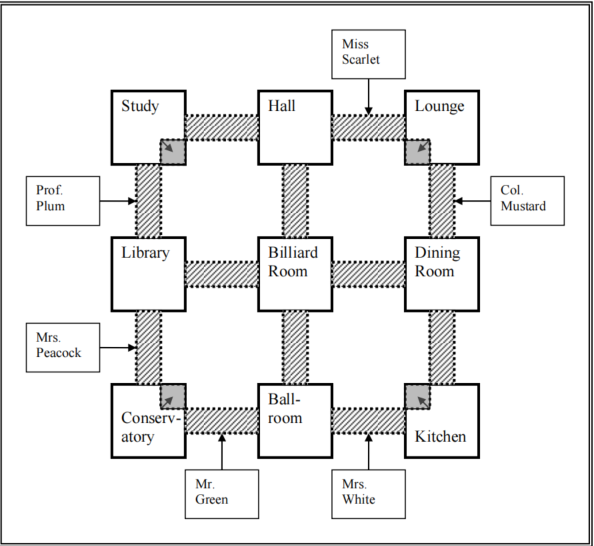
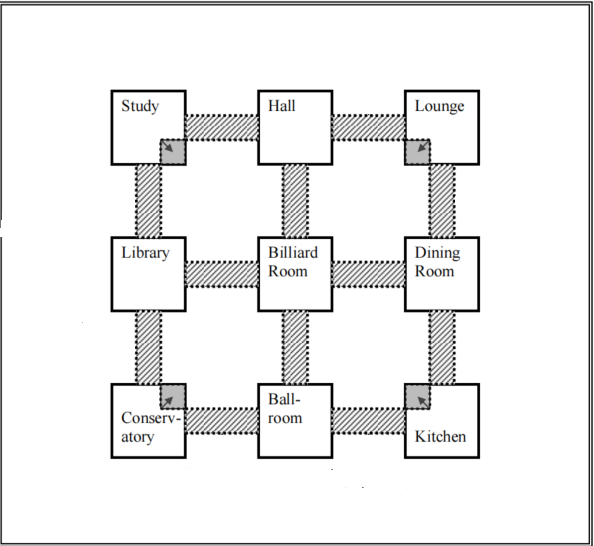
Added css styles and assets

diff --git a/clue-less-frontend/src/app/game-session/game-session.component.ts b/clue-less-frontend/src/app/game-session/game-session.component.ts
@@ -30,32 +30,34 @@ export class GameSessionComponent implements OnInit {
     suspect: ['', [Validators.required]]
   })
 
+  public imagePath: string = '../../assets/'
+
   public clueMap: Array<Array<BoardLocation>> = [
-    [{name: "Conservatory", xCord: 0, yCord: 0, occupancy: 0, playerOccupancy: ""},
-      {name: "Hallway#10", xCord: 1, yCord: 0, occupancy: 0, playerOccupancy: ""},
-      {name: "Ballroom", xCord: 2, yCord: 0, occupancy: 0, playerOccupancy: ""},
-      {name: "Hallway#30", xCord: 3, yCord: 0, occupancy: 0, playerOccupancy: ""},
-      {name: "Kitchen", xCord: 4, yCord: 0, occupancy: 0, playerOccupancy: ""}],
-    [{name: "Hallway#01", xCord: 0, yCord: 1, occupancy: 0, playerOccupancy: ""},
-      {name: "Wall", xCord: 1, yCord: 1, occupancy: 0, playerOccupancy: ""},
-      {name: "Hallway#21", xCord: 2, yCord: 1, occupancy: 0, playerOccupancy: ""},
-      {name: "Wall", xCord: 3, yCord: 1, occupancy: 0, playerOccupancy: ""},
-      {name: "Hallway#41", xCord: 4, yCord: 1, occupancy: 0, playerOccupancy: ""}],
-    [{name: "Library", xCord: 0, yCord: 2, occupancy: 0, playerOccupancy: ""},
-      {name: "Hallway#12", xCord: 1, yCord: 2, occupancy: 0, playerOccupancy: ""},
-      {name: "Billiard Room", xCord: 2, yCord: 2, occupancy: 0, playerOccupancy: ""},
-      {name: "Hallway#32", xCord: 3, yCord: 2, occupancy: 0, playerOccupancy: ""},
-      {name: "Dining Room", xCord: 4, yCord: 2, occupancy: 0, playerOccupancy: ""}],
-    [{name: "Hallway#03", xCord: 0, yCord: 3, occupancy: 0, playerOccupancy: ""},
-      {name: "Wall", xCord: 1, yCord: 3, occupancy: 0, playerOccupancy: ""},
-      {name: "Hallway#23", xCord: 2, yCord: 3, occupancy: 0, playerOccupancy: ""},
-      {name: "Wall", xCord: 3, yCord: 3, occupancy: 0, playerOccupancy: ""},
-      {name: "Hallway#43", xCord: 4, yCord: 3, occupancy: 0, playerOccupancy: ""}],
-    [{name: "Study", xCord: 0, yCord: 4, occupancy: 0, playerOccupancy: ""},
-      {name: "Hallway#14", xCord: 1, yCord: 4, occupancy: 0, playerOccupancy: ""},
-      {name: "Hall", xCord: 2, yCord: 4, occupancy: 0, playerOccupancy: ""},
-      {name: "Hallway#34", xCord: 3, yCord: 4, occupancy: 0, playerOccupancy: ""},
-      {name: "Lounge", xCord: 4, yCord: 4, occupancy: 0, playerOccupancy: ""}]
+    [{name: "Study", xCord: 0, yCord: 0, occupancy: 0, playerOccupancy: "", playerOccupancyImg: "", image: this.imagePath + "Study.png"},
+      {name: "Hallway#10", xCord: 1, yCord: 0, occupancy: 0, playerOccupancy: "", playerOccupancyImg: "", image: this.imagePath + "Vert Hallway.png"},
+      {name: "Ballroom", xCord: 2, yCord: 0, occupancy: 0, playerOccupancy: "", playerOccupancyImg: "", image: this.imagePath + "Library.png"},
+      {name: "Hallway#30", xCord: 3, yCord: 0, occupancy: 0, playerOccupancy: "", playerOccupancyImg: "", image: this.imagePath + "Vert Hallway.png"},
+      {name: "Kitchen", xCord: 4, yCord: 0, occupancy: 0, playerOccupancy: "", playerOccupancyImg: "", image: this.imagePath + "Conservatory.png"}],
+    [{name: "Hallway#01", xCord: 0, yCord: 1, occupancy: 0, playerOccupancy: "", playerOccupancyImg: "", image: this.imagePath + "Horizontal Hallway.png"},
+      {name: "Wall", xCord: 1, yCord: 1, occupancy: 0, playerOccupancy: "", playerOccupancyImg: "", image: this.imagePath + "Wall.png"},
+      {name: "Hallway#21", xCord: 2, yCord: 1, occupancy: 0, playerOccupancy: "", playerOccupancyImg: "", image: this.imagePath + "Horizontal Hallway.png"},
+      {name: "Wall", xCord: 3, yCord: 1, occupancy: 0, playerOccupancy: "", playerOccupancyImg: "", image: this.imagePath + "Wall.png"},
+      {name: "Hallway#41", xCord: 4, yCord: 1, occupancy: 0, playerOccupancy: "", playerOccupancyImg: "", image: this.imagePath + "Horizontal Hallway.png"}],
+    [{name: "Hall", xCord: 0, yCord: 2, occupancy: 0, playerOccupancy: "", playerOccupancyImg: "", image: this.imagePath + "Hall.png"},
+      {name: "Hallway#12", xCord: 1, yCord: 2, occupancy: 0, playerOccupancy: "", playerOccupancyImg: "", image: this.imagePath + "Vert Hallway.png"},
+      {name: "Billiard Room", xCord: 2, yCord: 2, occupancy: 0, playerOccupancy: "", playerOccupancyImg: "", image: this.imagePath + "Billiard Room.png"},
+      {name: "Hallway#32", xCord: 3, yCord: 2, occupancy: 0, playerOccupancy: "", playerOccupancyImg: "", image: this.imagePath + "Vert Hallway.png"},
+      {name: "Dining Room", xCord: 4, yCord: 2, occupancy: 0, playerOccupancy: "", playerOccupancyImg: "", image: this.imagePath + "Ballroom.png"}],
+    [{name: "Hallway#03", xCord: 0, yCord: 3, occupancy: 0, playerOccupancy: "", playerOccupancyImg: "", image: this.imagePath + "Horizontal Hallway.png"},
+      {name: "Wall", xCord: 1, yCord: 3, occupancy: 0, playerOccupancy: "", playerOccupancyImg: "", image: this.imagePath + "Wall.png"},
+      {name: "Hallway#23", xCord: 2, yCord: 3, occupancy: 0, playerOccupancy: "", playerOccupancyImg: "", image: this.imagePath + "Horizontal Hallway.png"},
+      {name: "Wall", xCord: 3, yCord: 3, occupancy: 0, playerOccupancy: "", playerOccupancyImg: "", image: this.imagePath + "Wall.png"},
+      {name: "Hallway#43", xCord: 4, yCord: 3, occupancy: 0, playerOccupancy: "", playerOccupancyImg: "", image: this.imagePath + "Horizontal Hallway.png"}],
+    [{name: "Lounge", xCord: 0, yCord: 4, occupancy: 0, playerOccupancy: "", playerOccupancyImg: "", image: this.imagePath + "Lounge.png"},
+      {name: "Hallway#14", xCord: 1, yCord: 4, occupancy: 0, playerOccupancy: "", playerOccupancyImg: "", image: this.imagePath + "Vert Hallway.png"},
+      {name: "Hall", xCord: 2, yCord: 4, occupancy: 0, playerOccupancy: "", playerOccupancyImg: "", image: this.imagePath + "Dining Room.png"},
+      {name: "Hallway#34", xCord: 3, yCord: 4, occupancy: 0, playerOccupancy: "", playerOccupancyImg: "", image: this.imagePath + "Vert Hallway.png"},
+      {name: "Study", xCord: 4, yCord: 4, occupancy: 0, playerOccupancy: "", playerOccupancyImg: "", image: this.imagePath + "Kitchen.png"}]
   ]
 
   public allRooms: string[];
@@ -153,6 +155,7 @@ export class GameSessionComponent implements OnInit {
     this.clueMap.forEach(row => {
       row.forEach(boardItem => {
         boardItem.playerOccupancy = '';
+        boardItem.playerOccupancyImg = '';
       })
     })
 
@@ -163,6 +166,7 @@ export class GameSessionComponent implements OnInit {
 
       if (playerLoc) {
         this.clueMap[playerLoc.x][playerLoc.y].playerOccupancy = k;
+        this.clueMap[playerLoc.x][playerLoc.y].playerOccupancyImg = this.imagePath + k.replace(/\./g, '').replace(/\s/, '-').toLowerCase() + '.png';
       }
     })
   }

diff --git a/clue-less-frontend/src/app/game-session/game-session.component.css b/clue-less-frontend/src/app/game-session/game-session.component.css
@@ -6,10 +6,12 @@
   border-radius: 4px;
   font-size: 1rem;
 }
+
 .start:hover {
   color: #fff;
   background-color: #42545C;
 }
+
 
 .exit {
   color: #333;
@@ -19,6 +21,7 @@
   border-radius: 4px;
   font-size: 1rem;
 }
+
 .exit:hover {
   color: #fff;
   background-color: #42545C;
@@ -29,8 +32,9 @@
   margin: 0 0 2em 0;
   list-style: none;
   padding: 0;
-  width: 15em;
+  width: 100%;
   display: flex;
+  justify-content: center;
 }
 
 .players li {
@@ -92,13 +96,84 @@
   align-self: center;
 }
 
-.row
-{
-  display:inline-block;
+.row {
+  display: inline-block;
 }
-.cell
-{
+
+.cell {
   width: 200px;
   height: 200px;
-  border: solid 1px #ccc;
+}
+
+.cell img {
+  width: 200px;
+  height: 200px;
+  position: absolute;
+  z-index: -1;
+}
+
+.cell .player-occupancy {
+  display: flex;
+  justify-content: center;
+  width: 100%;
+  height: 100%;
+}
+.cell .player-occupancy img {
+  width: auto;
+  height: auto;
+}
+
+.gameMap {
+display: flex;
+justify-content: center;
+align-items: center;
+}
+
+#lobby {
+display: flex;
+flex-direction: column;
+justify-content: center;
+align-items: center;
+}
+
+
+h2 {
+display: flex;
+justify-content: center;
+align-items: center;
+}
+
+.player-cards {
+display: flex;
+justify-content: center;
+align-items: center;
+  list-style: none;
+}
+.player-cards .card{
+  height: 300px;
+  width: 200px;
+  margin: 10px;
+  background: #879ceb;
+  border: 2px solid #4949eb;
+  border-radius: 10px;
+  position: relative;
+  display: flex;
+  flex-direction: column;
+}
+.player-cards .card .badge {
+  text-transform: capitalize;
+  background: white;
+  margin: 10px;
+  text-align: center;
+}
+.player-cards .card .name {
+  text-align: center;
+  justify-content: center;
+  display: flex;
+  flex-direction: column;
+  height: 100%;
+}
+ul li.card {
+  height: 300px;
+  width: 200px;
 }

diff --git a/clue-less-frontend/src/app/game-session/game-session.component.html b/clue-less-frontend/src/app/game-session/game-session.component.html
@@ -1,7 +1,9 @@
 <div id="lobby" *ngIf="lobby && !selectedPlayer">
-  <h2>Lobby: Available characters</h2>
+  <div class="vertical-lobby">
+    <h2>Lobby: Available characters</h2>
+  </div>
   <ul class="players">
-    <li *ngFor="let player of lobby.players">
+    <li class = "player" *ngFor="let player of lobby.players">
       <button type="button" [disabled]="!player.available" (click)="onSelect(player)">
       <span class="badge">{{player.id}}</span>
       <span class="name">{{player.name}}</span>
@@ -10,22 +12,24 @@
   </ul>
 </div>
 
-<div class="row" *ngFor="let row of clueMap;let i=index">
-  <div class="cell" *ngFor="let box of row;let j=index" id='columns'>
-    {{box.name}}
-    <div>
-      {{box.playerOccupancy}}
+<div class="gameMap">
+  <div class="row" *ngFor="let row of clueMap;let i=index">
+    <div class="cell" *ngFor="let box of row;let j=index" id='columns'>
+      <img *ngIf="box.image" src="{{box.image}}">
+      <div class="player-occupancy">
+        <img *ngIf="box.playerOccupancyImg" src={{box.playerOccupancyImg}}>
+      </div>
     </div>
   </div>
 </div>
-
 <div *ngIf="selectedPlayer">
 
   <h2>Selected {{selectedPlayer.name | uppercase}}</h2>
   <h3>Player Cards</h3>
   <ul class="player-cards">
-    <li *ngFor="let card of selectedPlayer.cardInHand">
-      <span class="badge">({{card.name}}: {{card.type}})</span>
+    <li *ngFor="let card of selectedPlayer.cardInHand" class="card">
+      <div class="badge"> {{card.type}}</div>
+      <div class="name"> {{card.name}}</div>
     </li>
   </ul>
 

diff --git a/clue-less-frontend/src/app/mock-players.ts b/clue-less-frontend/src/app/mock-players.ts
@@ -1,9 +1,26 @@
 import { Player } from "./player";
 
 export const PLAYERS: Player[] = [
-  { id: 1, name: 'Mrs. White', available: true},
+  { id: 1, name: 'Mrs. White', available: true, cardInHand: [
+      {
+        type: "SUSPECT",
+        name: "Colonel Mustard"
+      },
+      {
+        type: "ROOM",
+        name: "Billiard Room"
+      },
+      {
+        type: "WEAPON",
+        name: "Rope"
+      }
+    ],
+    availableMove: [
+      "accusation",
+      "down"
+    ]},
   { id: 2, name: 'Professor Plum', available: true},
   { id: 3, name: 'Mrs. Peacock', available: true},
   { id: 4, name: 'Colonel Mustard', available: true},
-  { id: 5, name: 'Mr. Green', available: false}
+  { id: 5, name: 'Mr. Green', available: true}
 ];

diff --git a/clue-less-frontend/src/app/banner/banner.component.css b/clue-less-frontend/src/app/banner/banner.component.css
@@ -17,7 +17,17 @@ a {
   flex: 0 1 auto;
   align-self: auto;
 }
-
+.background-image {
+  position: absolute;
+  top: 0;
+  z-index: -3;
+  width: 100%;
+  height: 100%;
+}
+.game-session-options {
+  display: flex;
+  justify-content: center;
+}
 @media (min-width: 600px) {
   a {
     width: 18%;
@@ -28,3 +38,4 @@ a {
 a:hover {
   background-color: black;
 }
+

diff --git a/clue-less-frontend/src/app/banner/banner.component.html b/clue-less-frontend/src/app/banner/banner.component.html
@@ -1,3 +1,4 @@
+<img src="../../assets/Banner%20Background.jpg" class="background-image">
 <div class="game-session-options">
   <a routerLink="/join-existing-game">
     Join Existing Game
@@ -5,6 +6,7 @@
   <a routerLink="/game-session-creator">
     Create Game Session
   </a>
+
 </div>
 
 

diff --git a/clue-less-frontend/src/app/app.component.css b/clue-less-frontend/src/app/app.component.css
@@ -1,3 +1,11 @@
 h1 {
-  margin-bottom: 0;
+  display: flex;
+  justify-content: center;
+  margin-top: 100px;
+}
+
+div {
+ background-image: '/assets/Banner Background.jpg';
+ background-size: cover;
+ background-repeat: no-repeat;
 }

diff --git a/clue-less-frontend/src/app/mock-game.ts b/clue-less-frontend/src/app/mock-game.ts
@@ -12,7 +12,7 @@ export const MOCKGAME: Game = {
       id: 1,
       name: "Professor Plum",
       color: "purple",
-      available: true,
+      available: false,
       cardInHand: [
         {
           type: "ROOM",

diff --git a/clue-less-frontend/src/app/boardLocation.ts b/clue-less-frontend/src/app/boardLocation.ts
@@ -4,4 +4,6 @@ export interface BoardLocation {
   yCord: number;
   occupancy: number;
   playerOccupancy: string;
+  playerOccupancyImg?: string;
+  image?: string;
 }
